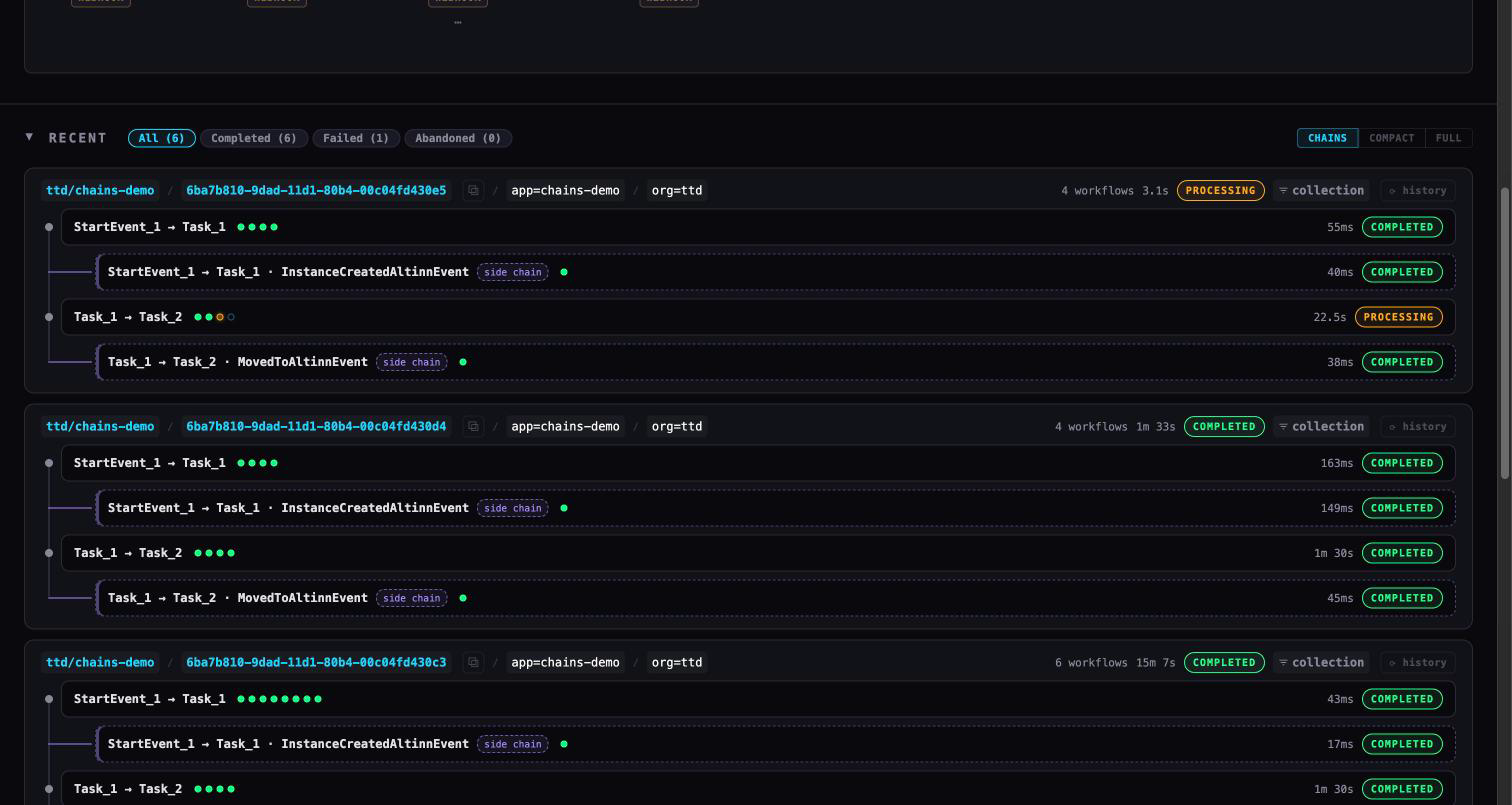
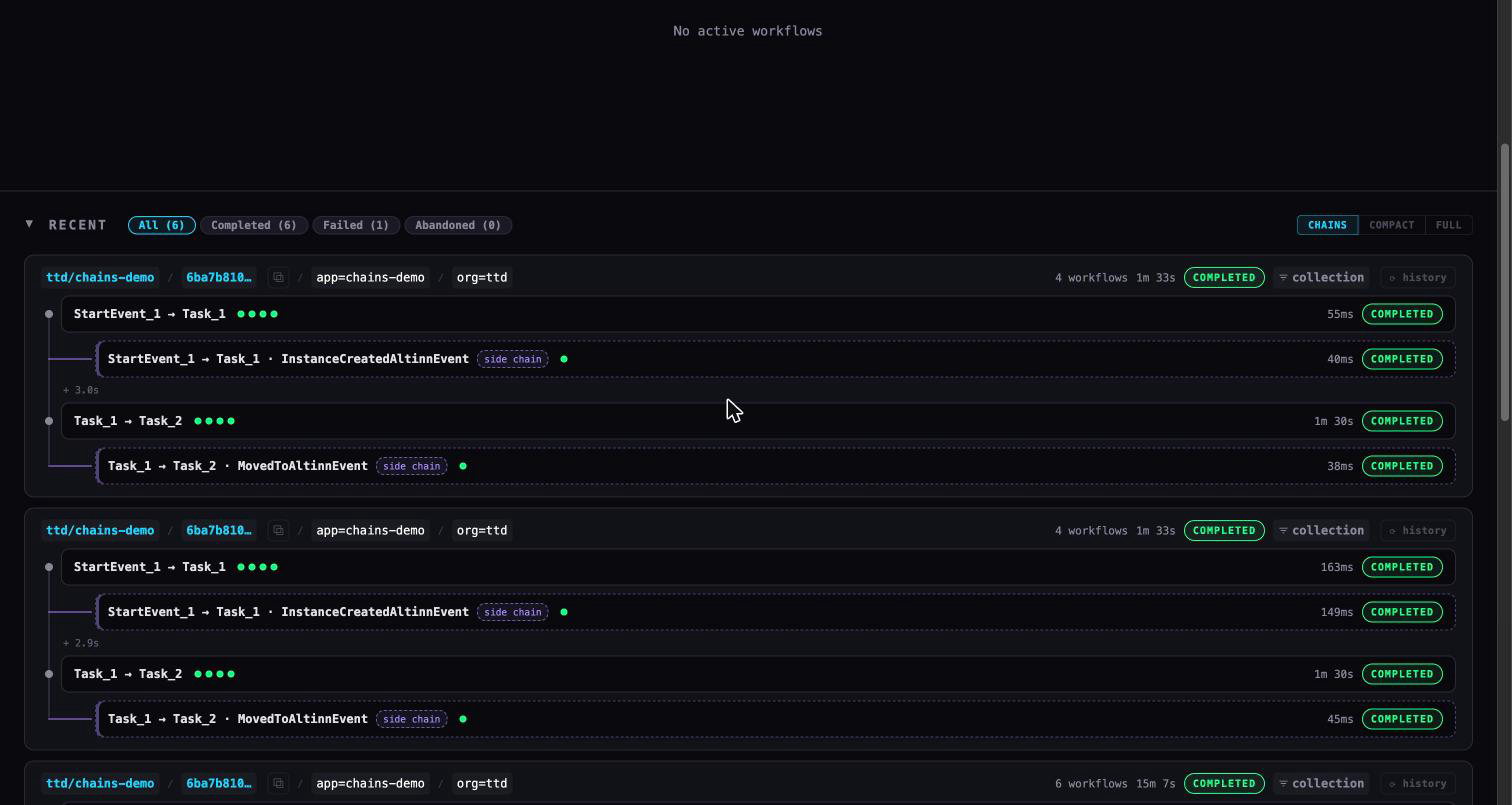
feat(workflow-engine): graph node cap + wall-clock gap dividers in chain spines
/dashboard/graph now keeps only the 200 most recently created nodes of
the connected component, applied in the recursive-CTE id query before
hydration so a pathologically long-lived collection can't produce an
unbounded eager-load. The response carries `truncated`, rendered as an
"earlier workflows not shown" divider at the top of the spine in both
the modal and the group views. The repository method gained an optional
limit (the public dependency-graph endpoint passes none) with a new
repository test for newest-N trimming and miss semantics.

Chain spines also render wall-clock gap dividers between consecutive
heads (> 1s): engine time lives in the row durations, user/waiting time
lives in the gaps. Suppressed while the preceding head is still running.

diff --git a/src/Runtime/workflow-engine/src/WorkflowEngine.Core/wwwroot/modules/shared/chain.js b/src/Runtime/workflow-engine/src/WorkflowEngine.Core/wwwroot/modules/shared/chain.js
@@ -100,17 +100,41 @@ const nodeHTML = (wf, isSide, isRoot) => {
     );
 };
 
+/** Gaps between transitions shorter than this are noise, not story. */
+const GAP_THRESHOLD_MS = 1000;
+
+/** Wall-clock end of a terminal workflow, NaN while it is still running. @param {Workflow} wf */
+const wallClockEnd = (wf) =>
+    TERMINAL_STATUSES.has(wf.status)
+        ? new Date(wf.removedAt || wf.steps.at(-1)?.updatedAt || wf.updatedAt || wf.createdAt).getTime()
+        : NaN;
+
 /**
  * Render an ordered chain as HTML, registering each workflow in the shared store so
- * row interactions (expand, step modal) can resolve it later.
- * @param {ChainItem[]} items @param {string} [rootId] - workflow to mark with the cyan spine dot
+ * row interactions (expand, step modal) can resolve it later. Wall-clock gaps between
+ * consecutive heads render as dividers — that is where the time went between the
+ * engine's transitions (e.g. the user working in the task).
+ * @param {ChainItem[]} items
+ * @param {string} [rootId] - workflow to mark with the cyan spine dot
+ * @param {{ truncated?: boolean }} [opts] - truncated: the graph has an older, unshown tail
  * @returns {string}
  */
-export const renderChainList = (items, rootId = '') => {
+export const renderChainList = (items, rootId = '', opts) => {
     let html = '<div class="chain-list">';
+    if (opts?.truncated) {
+        html += `<div class="chain-truncated" title="The connected graph exceeds the node cap; only the most recent workflows are shown">&#8943; earlier workflows not shown</div>`;
+    }
+    let prevHeadEnd = NaN;
     for (const item of items) {
         const wf = freshest(item.wf);
         if (!state.previousWorkflows[wf.databaseId]) workflowData[wf.databaseId] = wf;
+        if (!item.isSide) {
+            const gap = new Date(wf.createdAt).getTime() - prevHeadEnd;
+            if (gap > GAP_THRESHOLD_MS) {
+                html += `<div class="chain-gap" title="Wall-clock gap before this transition was enqueued">+&thinsp;${esc(formatElapsed(gap / 1000))}</div>`;
+            }
+            prevHeadEnd = wallClockEnd(wf);
+        }
         html += nodeHTML(wf, item.isSide, wf.databaseId === rootId);
     }
     html += '</div>';

diff --git a/src/Runtime/workflow-engine/src/WorkflowEngine.Core/wwwroot/style.css b/src/Runtime/workflow-engine/src/WorkflowEngine.Core/wwwroot/style.css
@@ -2585,6 +2585,19 @@ pre.diff-remove {
 .chain-node .compact-dot {
     cursor: pointer;
 }
+.chain-gap {
+    font-size: 10px;
+    font-variant-numeric: tabular-nums;
+    color: var(--text-dim);
+    opacity: 0.65;
+    margin: -3px 0 5px 2px;
+}
+.chain-truncated {
+    font-size: 10px;
+    color: var(--text-dim);
+    opacity: 0.65;
+    margin: 0 0 8px 2px;
+}
 .chain-node.chain-expanded {
     display: block;
     padding: 0;

diff --git a/src/Runtime/workflow-engine/src/WorkflowEngine.Core/wwwroot/modules/shared/chain-groups.js b/src/Runtime/workflow-engine/src/WorkflowEngine.Core/wwwroot/modules/shared/chain-groups.js
@@ -17,7 +17,7 @@ import { buildSpineByCreation, buildSpineFromEdges, renderChainList } from './ch
 /**
  * Full-graph cache per collectionKey, populated by the per-group history control.
  * Shared across surfaces: history loaded from Recent is instantly available in Query.
- * @type {Map<string, { nodes: Workflow[], edges: { from: string, to: string, kind: string }[] }>}
+ * @type {Map<string, { nodes: Workflow[], edges: { from: string, to: string, kind: string }[], truncated: boolean }>}
  */
 const historyCache = new Map();
 
@@ -156,7 +156,7 @@ export const buildGroupEl = (key, members, opts) => {
     if (labels.size) el.dataset.labels = [...labels].join(',');
     el.innerHTML =
         groupHeaderHTML(key, members, { total, hasHistory: !!hist, countNoun }) +
-        renderChainList(items);
+        renderChainList(items, '', { truncated: hist?.truncated });
     for (const m of members) {
         if (!state.previousWorkflows[m.databaseId]) workflowData[m.databaseId] = m;
     }
@@ -175,7 +175,11 @@ window.loadChainHistory = async (e, key, wfId, ns) => {
         );
         if (!res.ok) return;
         const data = await res.json();
-        historyCache.set(key, { nodes: data.workflows ?? [], edges: data.edges ?? [] });
+        historyCache.set(key, {
+            nodes: data.workflows ?? [],
+            edges: data.edges ?? [],
+            truncated: !!data.truncated,
+        });
     } catch {
         return;
     }

diff --git a/src/Runtime/workflow-engine/src/WorkflowEngine.Core/wwwroot/modules/features/chain-modal.js b/src/Runtime/workflow-engine/src/WorkflowEngine.Core/wwwroot/modules/features/chain-modal.js
@@ -39,7 +39,7 @@ const fetchAndRender = async (wfId, wfNamespace) => {
         _graphIds = new Set(nodes.map((n) => n.databaseId));
         const items = buildSpineFromEdges(nodes, data.edges ?? []);
         dom.chainBody.innerHTML = items.length
-            ? renderChainList(items, data.root)
+            ? renderChainList(items, data.root, { truncated: data.truncated })
             : '<div class="modal-loading">No workflows in graph</div>';
     } catch (err) {
         if (_openWfId !== wfId) return;

diff --git a/src/Runtime/workflow-engine/tests/WorkflowEngine.Repository.Tests/DependencyGraphTests.cs b/src/Runtime/workflow-engine/tests/WorkflowEngine.Repository.Tests/DependencyGraphTests.cs
@@ -1,0 +1,55 @@
+using WorkflowEngine.Repository.Tests.Fixtures;
+
+namespace WorkflowEngine.Repository.Tests;
+
+[Collection(PostgresCollection.Name)]
+public sealed class DependencyGraphTests(PostgresFixture fixture) : IAsyncLifetime
+{
+    public async ValueTask InitializeAsync() => await fixture.Reset();
+
+    public ValueTask DisposeAsync() => ValueTask.CompletedTask;
+
+    [Fact]
+    public async Task GetWorkflowDependencyGraph_LimitKeepsNewestNodes()
+    {
+        await using var context = fixture.CreateDbContext();
+        var repo = fixture.CreateRepository();
+
+        // a ← b ← c, enqueued as three separate batches so creation order is distinct.
+        var (requestA, metadataA, ns, labels) = WorkflowTestHelper.CreateRequest();
+        var a = await WorkflowTestHelper.EnqueueWorkflow(repo, context, requestA, metadataA, ns: ns, labels: labels);
+        var (requestB, metadataB, _, _) = WorkflowTestHelper.CreateRequest(ns: ns, dependencies: [a.DatabaseId]);
+        var b = await WorkflowTestHelper.EnqueueWorkflow(repo, context, requestB, metadataB, ns: ns, labels: labels);
+        var (requestC, metadataC, _, _) = WorkflowTestHelper.CreateRequest(ns: ns, dependencies: [b.DatabaseId]);
+        var c = await WorkflowTestHelper.EnqueueWorkflow(repo, context, requestC, metadataC, ns: ns, labels: labels);
+
+        // Unlimited: the whole component, queried from the oldest node.
+        var full = await repo.GetWorkflowDependencyGraph(
+            a.DatabaseId,
+            ns,
+            cancellationToken: TestContext.Current.CancellationToken
+        );
+        Assert.NotNull(full);
+        Assert.Equal(3, full.Count);
+
+        // Limited: only the most recently created nodes survive — the (older) root the
+        // component was queried from is trimmed, but the lookup itself still succeeds.
+        var limited = await repo.GetWorkflowDependencyGraph(
+            a.DatabaseId,
+            ns,
+            limit: 2,
+            TestContext.Current.CancellationToken
+        );
+        Assert.NotNull(limited);
+        Assert.Equal([b.DatabaseId, c.DatabaseId], limited.Select(w => w.DatabaseId).ToArray());
+
+        // A missing root is still a miss, not an empty capped result.
+        var missing = await repo.GetWorkflowDependencyGraph(
+            Guid.NewGuid(),
+            ns,
+            limit: 2,
+            TestContext.Current.CancellationToken
+        );
+        Assert.Null(missing);
+    }
+}

diff --git a/src/Runtime/workflow-engine/src/WorkflowEngine.Core/Endpoints/DashboardEndpoints.cs b/src/Runtime/workflow-engine/src/WorkflowEngine.Core/Endpoints/DashboardEndpoints.cs
@@ -570,24 +570,38 @@ internal static class DashboardEndpoints
             )
             .ExcludeFromDescription();
 
-        // Connected dependency graph for the chain modal: every workflow reachable from the given
+        // Connected dependency graph for the chain views: every workflow reachable from the given
         // one through dependency/link relations in either direction, as full card DTOs plus typed
-        // edges so the frontend can lay out the spine without re-deriving relations.
+        // edges so the frontend can lay out the spine without re-deriving relations. Capped at the
+        // most recently created nodes so a pathologically long-lived collection can't produce an
+        // unbounded payload; `truncated` tells the frontend the story has an older, unshown tail.
+        const int graphNodeCap = 200;
         app.MapGet(
                 "/dashboard/graph",
                 async (IServiceProvider sp, Guid wf, string ns, CancellationToken ct) =>
                 {
                     using IServiceScope scope = sp.CreateScope();
                     var repo = scope.ServiceProvider.GetRequiredService<IEngineRepository>();
-                    IReadOnlyList<Workflow>? graph = await repo.GetWorkflowDependencyGraph(wf, ns, ct);
+                    IReadOnlyList<Workflow>? graph = await repo.GetWorkflowDependencyGraph(
+                        wf,
+                        ns,
+                        limit: graphNodeCap + 1,
+                        ct
+                    );
 
                     if (graph is null)
                         return Results.NotFound();
+
+                    // The list is CreatedAt-ascending; the +1 sentinel (when present) is the oldest.
+                    bool truncated = graph.Count > graphNodeCap;
+                    if (truncated)
+                        graph = [.. graph.Skip(graph.Count - graphNodeCap)];
 
                     return Results.Json(
                         new
                         {
                             root = wf,
+                            truncated,
                             workflows = graph.Select(DashboardMapper.MapWorkflow),
                             edges = EngineRequestHandlers
                                 .BuildDependencyGraphEdges(graph)

diff --git a/src/Runtime/workflow-engine/tests/WorkflowEngine.Core.Tests/Endpoints/EngineEndpointTests.cs b/src/Runtime/workflow-engine/tests/WorkflowEngine.Core.Tests/Endpoints/EngineEndpointTests.cs
@@ -714,7 +714,14 @@ public class EngineEndpointTests
         var workflowGuid = Guid.NewGuid();
         var repositoryMock = new Mock<IEngineRepository>();
         repositoryMock
-            .Setup(r => r.GetWorkflowDependencyGraph(workflowGuid, It.IsAny<string>(), It.IsAny<CancellationToken>()))
+            .Setup(r =>
+                r.GetWorkflowDependencyGraph(
+                    workflowGuid,
+                    It.IsAny<string>(),
+                    It.IsAny<int?>(),
+                    It.IsAny<CancellationToken>()
+                )
+            )
             .ReturnsAsync([dependency, workflow, linked]);
 
         var result = await EngineRequestHandlers.GetWorkflowDependencyGraph(
@@ -750,7 +757,12 @@ public class EngineEndpointTests
         var repositoryMock = new Mock<IEngineRepository>();
         repositoryMock
             .Setup(r =>
-                r.GetWorkflowDependencyGraph(It.IsAny<Guid>(), It.IsAny<string>(), It.IsAny<CancellationToken>())
+                r.GetWorkflowDependencyGraph(
+                    It.IsAny<Guid>(),
+                    It.IsAny<string>(),
+                    It.IsAny<int?>(),
+                    It.IsAny<CancellationToken>()
+                )
             )
             .ReturnsAsync((IReadOnlyList<Workflow>?)null);
 

diff --git a/src/Runtime/workflow-engine/src/WorkflowEngine.Data/Repository/EngineRepository.Reads.cs b/src/Runtime/workflow-engine/src/WorkflowEngine.Data/Repository/EngineRepository.Reads.cs
@@ -745,6 +745,7 @@ internal sealed partial class EngineRepository
     public async Task<IReadOnlyList<Workflow>?> GetWorkflowDependencyGraph(
         Guid workflowId,
         string ns,
+        int? limit = null,
         CancellationToken cancellationToken = default
     )
     {
@@ -760,7 +761,7 @@ internal sealed partial class EngineRepository
                 async ct =>
                 {
                     await using var conn = await dataSource.OpenConnectionAsync(ct);
-                    graphWorkflowIds = await GetWorkflowDependencyGraphIds(conn, workflowId, ns, ct);
+                    graphWorkflowIds = await GetWorkflowDependencyGraphIds(conn, workflowId, ns, limit, ct);
                 },
                 cancellationToken
             );
@@ -798,11 +799,14 @@ internal sealed partial class EngineRepository
     /// <summary>
     /// Returns workflow IDs in the connected component reachable from the root workflow
     /// through dependency and link relations in either direction, scoped to the namespace.
+    /// When <paramref name="limit"/> is set, keeps only the most recently created workflows,
+    /// bounding the hydration cost for pathologically large components.
     /// </summary>
     private static async Task<List<Guid>> GetWorkflowDependencyGraphIds(
         NpgsqlConnection conn,
         Guid workflowId,
         string ns,
+        int? limit,
         CancellationToken cancellationToken
     )
     {
@@ -833,14 +837,18 @@ internal sealed partial class EngineRepository
                 JOIN graph g ON n.from_id = g.id
                 WHERE w.namespace = @ns
             )
-            SELECT id
-            FROM graph
+            SELECT g.id
+            FROM graph g
+            JOIN engine.workflows w ON w.id = g.id
+            ORDER BY w.created_at DESC, w.id DESC
+            LIMIT @limit
             """;
 
         var workflowIds = new List<Guid>();
         await using var cmd = new NpgsqlCommand(sql, conn);
         cmd.Parameters.Add(new NpgsqlParameter<Guid>("id", workflowId));
         cmd.Parameters.Add(new NpgsqlParameter<string>("ns", ns));
+        cmd.Parameters.Add(new NpgsqlParameter<int?>("limit", limit) { NpgsqlDbType = NpgsqlDbType.Integer });
 
         await using var reader = await cmd.ExecuteReaderAsync(cancellationToken);
         while (await reader.ReadAsync(cancellationToken))

diff --git a/src/Runtime/workflow-engine/src/WorkflowEngine.Core/Endpoints/EngineEndpoints.cs b/src/Runtime/workflow-engine/src/WorkflowEngine.Core/Endpoints/EngineEndpoints.cs
@@ -284,7 +284,11 @@ internal static class EngineRequestHandlers
         Metrics.WorkflowQueriesReceived.Add(1, ("endpoint", "dependency-graph"));
 
         var ns = NormalizeNamespace(@namespace);
-        var dependencyGraph = await repository.GetWorkflowDependencyGraph(workflowId, ns, cancellationToken);
+        var dependencyGraph = await repository.GetWorkflowDependencyGraph(
+            workflowId,
+            ns,
+            cancellationToken: cancellationToken
+        );
 
         if (dependencyGraph is null)
             return TypedResults.NotFound();

diff --git a/src/Runtime/workflow-engine/src/WorkflowEngine.Data/Repository/IEngineRepository.cs b/src/Runtime/workflow-engine/src/WorkflowEngine.Data/Repository/IEngineRepository.cs
@@ -126,11 +126,14 @@ internal interface IEngineRepository
     /// upstream or downstream — through dependency or link relations within <paramref name="ns"/>.
     /// Each returned <see cref="Workflow"/> has its steps, dependencies, dependents, and links
     /// eagerly loaded. Ordered by <c>CreatedAt</c>, then <c>Id</c>. Returns <c>null</c> if the
-    /// root workflow does not exist in the given namespace.
+    /// root workflow does not exist in the given namespace. When <paramref name="limit"/> is set
+    /// and the connected component is larger, only the most recently created workflows are
+    /// hydrated and returned (the cap is applied before eager loading).
     /// </summary>
     Task<IReadOnlyList<Workflow>?> GetWorkflowDependencyGraph(
         Guid workflowId,
         string ns,
+        int? limit = null,
         CancellationToken cancellationToken = default
     );
 

diff --git a/src/Runtime/workflow-engine/src/WorkflowEngine.Core/wwwroot/DASHBOARD_SPEC.md b/src/Runtime/workflow-engine/src/WorkflowEngine.Core/wwwroot/DASHBOARD_SPEC.md
@@ -190,11 +190,13 @@ Response:
 
 ### `GET /dashboard/graph`
 
-Connected dependency graph for the chain modal: every workflow reachable from the given one through
+Connected dependency graph for the chain views: every workflow reachable from the given one through
 dependency/link relations in either direction (recursive CTE, namespace-scoped). Nodes are full card
 DTOs (same shape as the SSE workflow payload, relations included); edges are typed so the frontend
 can lay out the spine without re-deriving relations. 404 when the workflow does not exist in the
-namespace.
+namespace. Capped at the 200 most recently created nodes (the cap is applied before hydration);
+`truncated: true` signals an older, unshown tail, rendered as an "earlier workflows not shown"
+divider at the top of the spine.
 
 | Parameter | Type   | Description               |
 | --------- | ------ | ------------------------- |
@@ -206,6 +208,7 @@ Response:
 ```json
 {
     "root": "guid",
+    "truncated": false,
     "workflows": ["Workflow, same shape as the SSE payload"],
     "edges": [{ "from": "guid", "to": "guid", "kind": "dependency | link" }]
 }
@@ -442,6 +445,10 @@ root workflow (where a root id is given) gets a cyan spine marker and a brighten
 **Row expansion:** clicking a row (outside interactive elements) swaps it in place for the full
 pipeline card (`chainRowToggle`), fetching relations on first expand like compact-card expansion
 does; clicking the expanded card collapses it back. The expanded set survives re-renders.
+
+**Gap dividers:** wall-clock gaps > 1s between consecutive heads render as a dim `+ 4.2s` divider
+before the later head — that is where the time went between the engine's transitions (e.g. the
+user working in the task). Suppressed while the preceding head is still running.
 
 ## Chain Modal
 